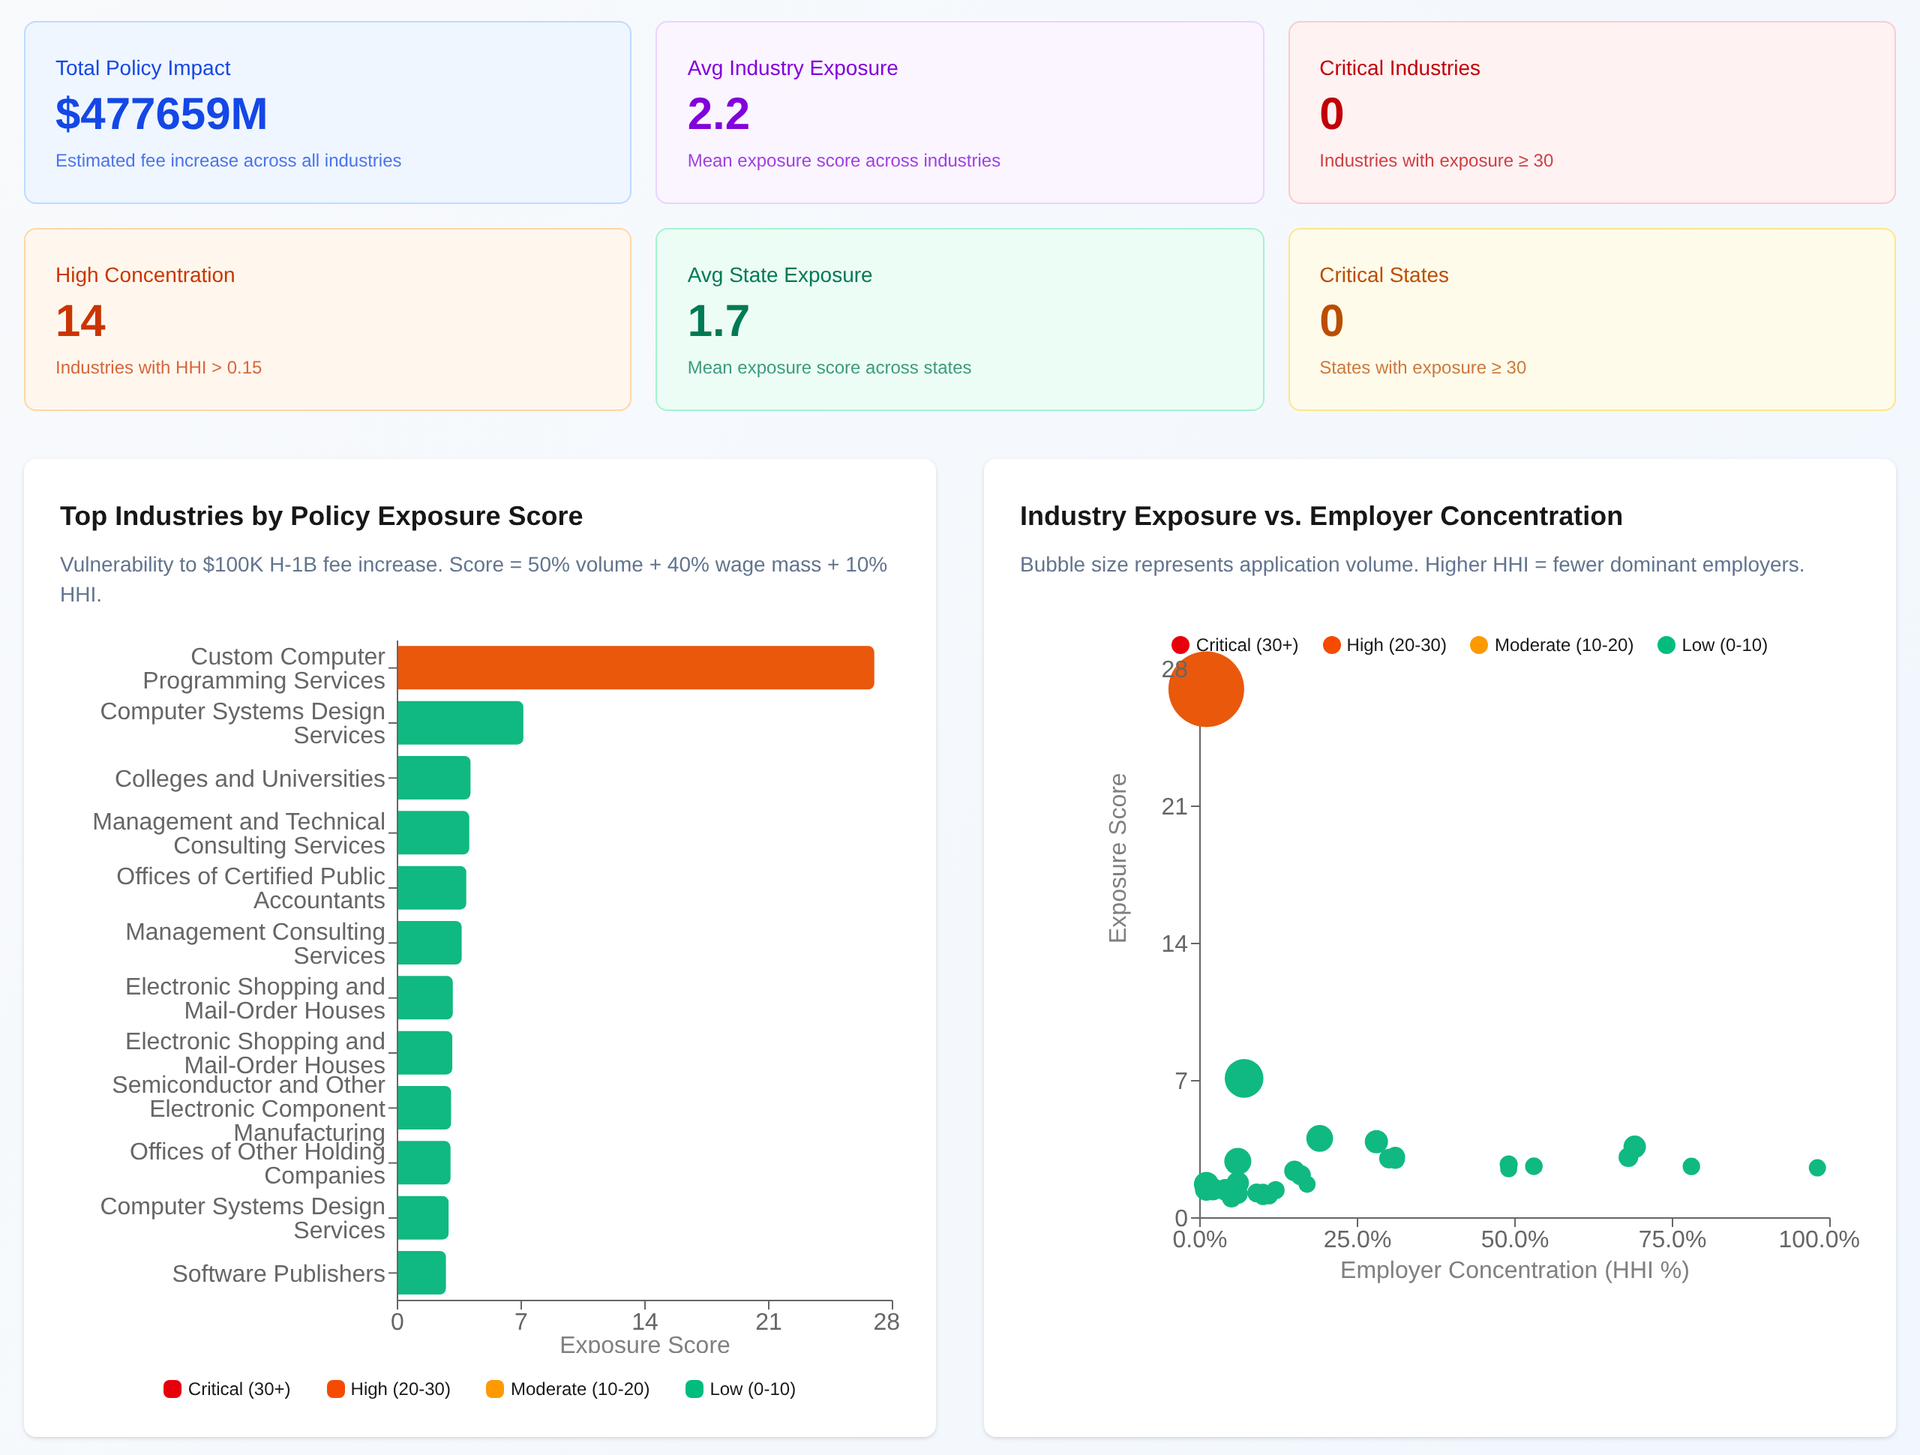
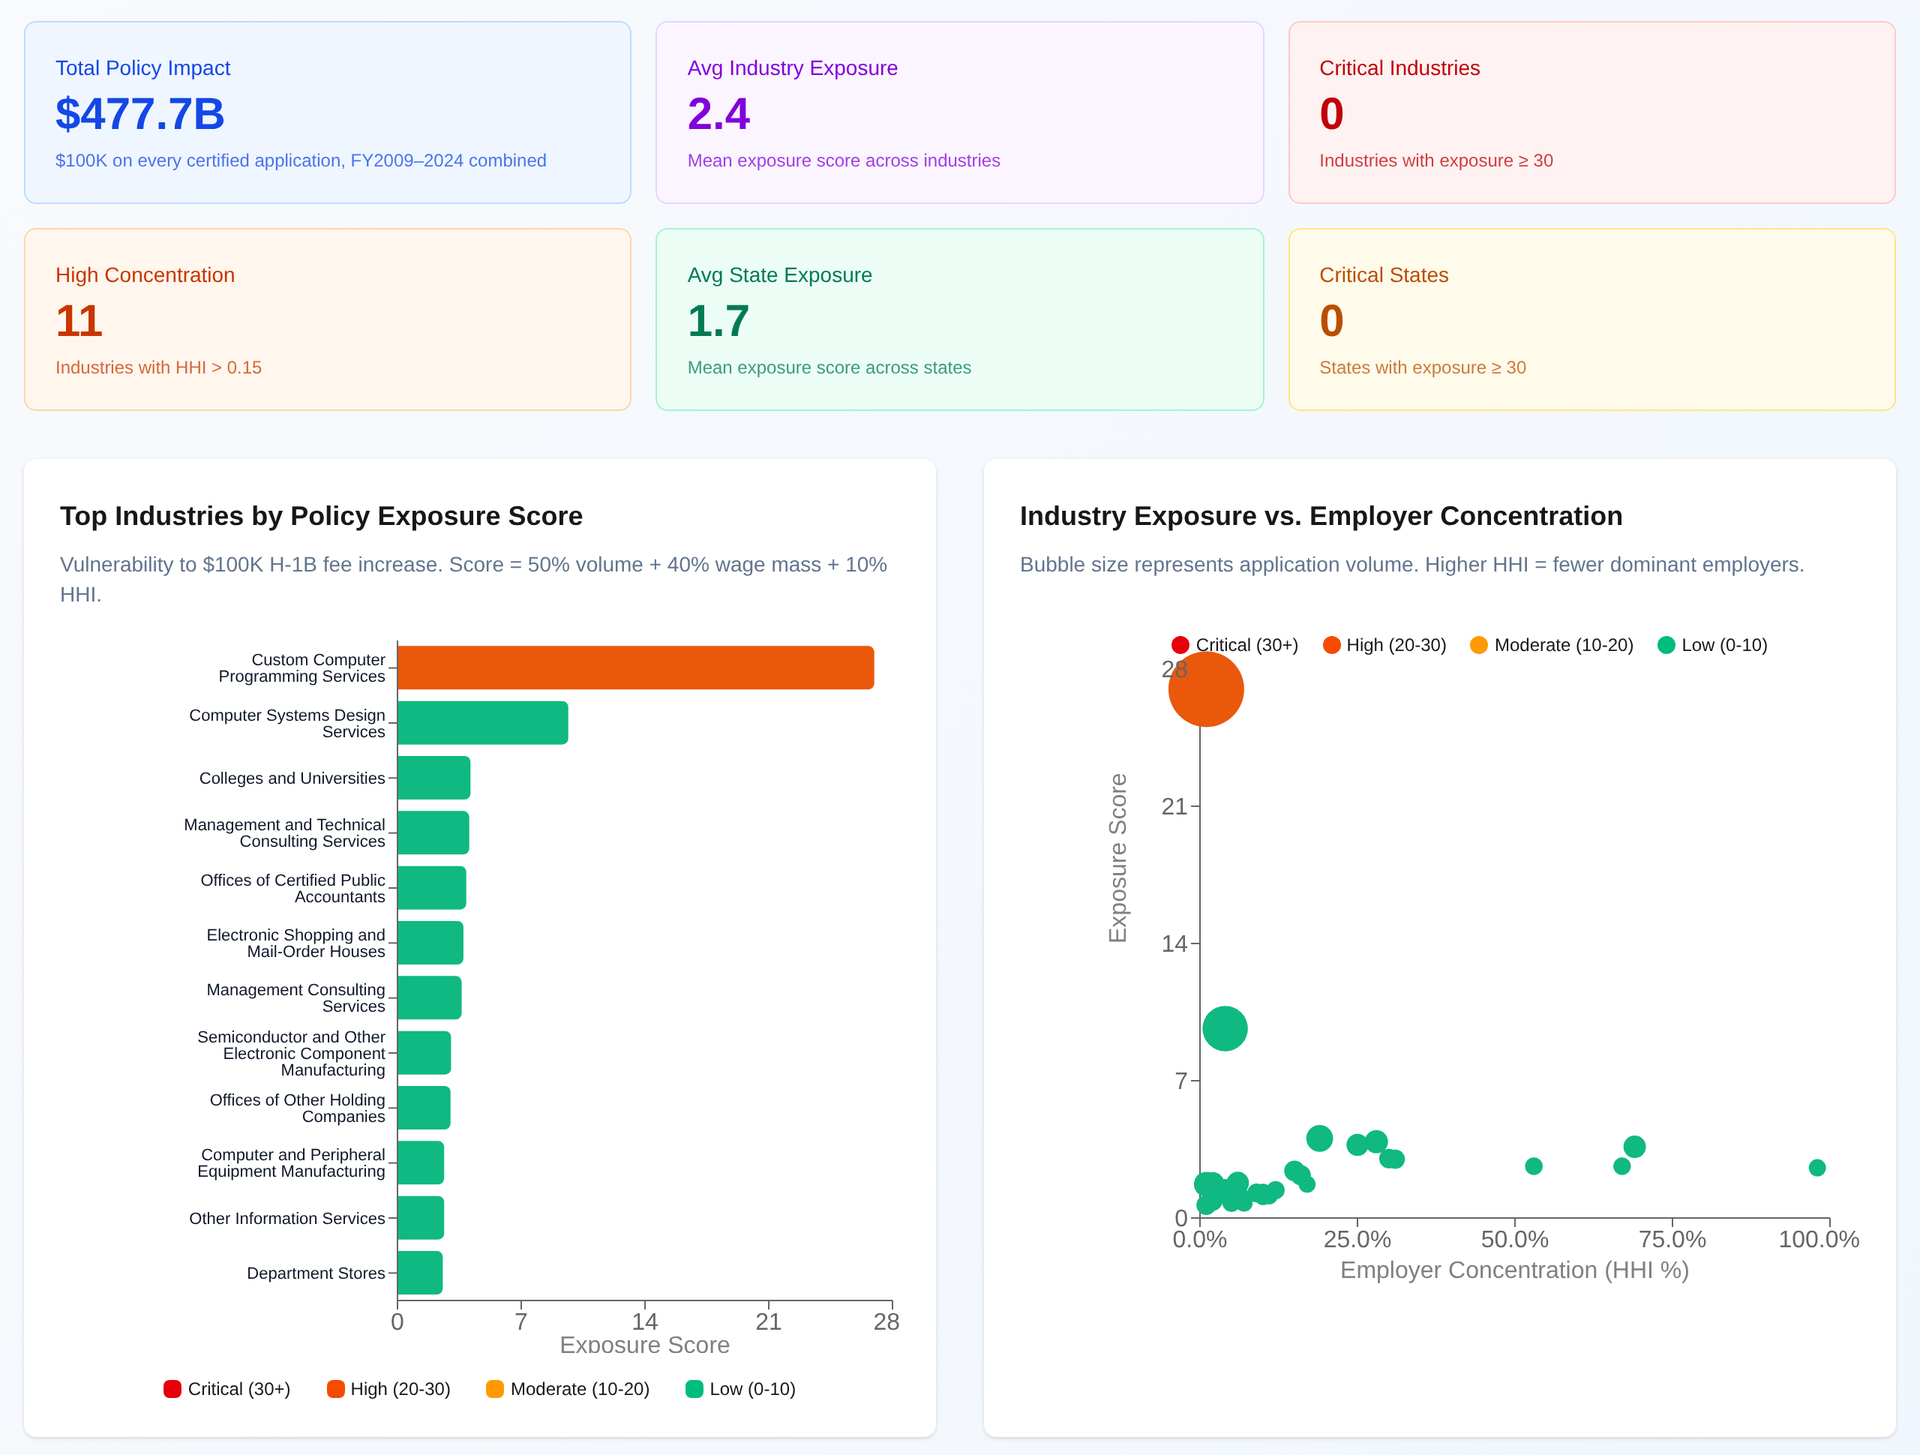
Merge duplicate industry codes, show full industry names, format policy impact; rewrite README

diff --git a/frontend/lib/staticData.ts b/frontend/lib/staticData.ts
@@ -7,13 +7,82 @@ import covidTrends from '@/data/covid_trends.json';
 import exposureScores from '@/data/exposure_scores.json';
 import type { IndustryMetric, StateMetric, EmployerMetric } from '@/lib/types';
 
-export const industryData = industryMetrics as IndustryMetric[];
+// Several NAICS codes share one industry name (e.g. 5415, 54151 and 541512 are all
+// "Computer Systems Design Services": the same industry recorded at different levels of
+// detail or under different NAICS editions). Merge them so each industry appears once.
+// The merged row keeps the code of its largest component.
+
+type Row = Record<string, unknown>;
+const num = (v: unknown) => Number(v ?? 0);
+
+function groupBy<T>(rows: T[], key: (r: T) => string) {
+  const groups = new Map<string, T[]>();
+  for (const r of rows) {
+    const k = key(r);
+    if (!groups.has(k)) groups.set(k, []);
+    groups.get(k)!.push(r);
+  }
+  return groups;
+}
+
+function mergeIndustryMetrics(rows: IndustryMetric[]): IndustryMetric[] {
+  const groups = groupBy(rows, (r) => `${r.fiscal_year}|${r.industry_name ?? r.industry}`);
+  return Array.from(groups.values()).map((g) => {
+    if (g.length === 1) return g[0];
+    const largest = g.reduce((a, b) => (b.total_applications > a.total_applications ? b : a));
+    const apps = g.reduce((s, r) => s + r.total_applications, 0);
+    const wages = g.reduce((s, r) => s + num(r.total_annual_wages), 0);
+    // Wage-weighted average is exact; a merged median can't be computed from summaries,
+    // so use an application-weighted average of the component medians.
+    const median = g.reduce((s, r) => s + num(r.median_annual_wage) * r.total_applications, 0) / apps;
+    return {
+      ...largest,
+      total_applications: apps,
+      unique_employers: g.reduce((s, r) => s + r.unique_employers, 0),
+      total_annual_wages: wages,
+      avg_annual_wage: wages / apps,
+      median_annual_wage: Math.round(median),
+    };
+  });
+}
+
+function mergeExposureIndustries(rows: Row[]): Row[] {
+  const groups = groupBy(rows, (r) => String(r.industry_name ?? r.industry));
+  return Array.from(groups.values())
+    .map((g) => {
+      if (g.length === 1) return g[0];
+      const largest = g.reduce((a, b) => (num(b.total_applications) > num(a.total_applications) ? b : a));
+      const apps = g.reduce((s, r) => s + num(r.total_applications), 0);
+      // HHI of the combined industry, assuming each employer files under one code:
+      // sum over codes of (code's share of the combined industry)^2 x code's HHI.
+      const hhi = g.reduce((s, r) => s + (num(r.total_applications) / apps) ** 2 * num(r.hhi_concentration), 0);
+      const volume = g.reduce((s, r) => s + num(r.volume_share_pct), 0);
+      const wage = g.reduce((s, r) => s + num(r.wage_mass_share_pct), 0);
+      const hhiScore = Math.min(hhi, 0.25) * 100;
+      const round2 = (x: number) => Math.round(x * 100) / 100;
+      return {
+        ...largest,
+        total_applications: apps,
+        total_wage_mass: g.reduce((s, r) => s + num(r.total_wage_mass), 0),
+        employer_count: g.reduce((s, r) => s + num(r.employer_count), 0),
+        hhi_concentration: round2(hhi),
+        volume_share_pct: round2(volume),
+        wage_mass_share_pct: round2(wage),
+        hhi_score: round2(hhiScore),
+        exposure_score: round2(0.5 * volume + 0.4 * wage + 0.1 * hhiScore),
+        estimated_fee_shock_millions: round2((apps * 100000) / 1e6),
+      };
+    })
+    .sort((a, b) => num(b.exposure_score) - num(a.exposure_score));
+}
+
+export const industryData = mergeIndustryMetrics(industryMetrics as IndustryMetric[]);
 export const stateData = stateMetrics as StateMetric[];
 export const employerData = employerMetrics as EmployerMetric[];
-export const covidData = covidTrends as Record<string, unknown>[];
-export const exposureData = exposureScores as {
-  industries: Record<string, unknown>[];
-  states: Record<string, unknown>[];
+export const covidData = covidTrends as Row[];
+export const exposureData = {
+  industries: mergeExposureIndustries((exposureScores as { industries: Row[] }).industries),
+  states: (exposureScores as { states: Row[] }).states,
 };
 
 // The industry dropdown sends the industry *name*; older links may send the NAICS code.

diff --git a/frontend/components/IndustryCharts.tsx b/frontend/components/IndustryCharts.tsx
@@ -24,7 +24,7 @@ export default function IndustryCharts({ data }: IndustryChartsProps) {
     .slice(0, 10);
 
   // Helper function to truncate long names
-  const truncateName = (name: string, maxLength: number = 15) => {
+  const truncateName = (name: string, maxLength: number = 80) => {
     if (name.length <= maxLength) return name;
     return name.substring(0, maxLength) + '...';
   };
@@ -56,18 +56,17 @@ export default function IndustryCharts({ data }: IndustryChartsProps) {
         <h3 className="text-lg font-semibold text-slate-900 mb-4">
           Top 10 Industries by Applications
         </h3>
-        <ResponsiveContainer width="100%" height={300}>
-          <BarChart data={applicationsData}>
+        <ResponsiveContainer width="100%" height={420}>
+          <BarChart data={applicationsData} layout="vertical" margin={{ right: 16 }}>
             <CartesianGrid strokeDasharray="3 3" />
-            <XAxis
+            <XAxis type="number" tickFormatter={(v) => Number(v).toLocaleString()} />
+            <YAxis
+              type="category"
               dataKey="industry"
-              angle={-45}
-              textAnchor="end"
-              height={100}
+              width={210}
               interval={0}
-              tick={{ fontSize: 12.5, fill: '#000000' }}
+              tick={{ fontSize: 11, fill: '#0f172a' }}
             />
-            <YAxis />
             <Tooltip
               contentStyle={{ backgroundColor: 'white', border: '1px solid #ccc' }}
               labelFormatter={(label, payload) => {
@@ -88,21 +87,20 @@ export default function IndustryCharts({ data }: IndustryChartsProps) {
         <h3 className="text-lg font-semibold text-slate-900 mb-4">
           Average & Median Wages by Industry
         </h3>
-        <ResponsiveContainer width="100%" height={300}>
-          <BarChart data={wagesData}>
+        <ResponsiveContainer width="100%" height={420}>
+          <BarChart data={wagesData} layout="vertical" margin={{ right: 16 }}>
             <CartesianGrid strokeDasharray="3 3" />
-            <XAxis
+            <XAxis type="number" tickFormatter={(value) => `$${(value / 1000).toFixed(0)}k`} />
+            <YAxis
+              type="category"
               dataKey="industry"
-              angle={-45}
-              textAnchor="end"
-              height={100}
+              width={210}
               interval={0}
-              tick={{ fontSize: 12.5, fill: '#000000' }}
+              tick={{ fontSize: 11, fill: '#0f172a' }}
             />
-            <YAxis tickFormatter={(value) => `$${(value / 1000).toFixed(0)}k`} />
             <Tooltip
               contentStyle={{ backgroundColor: 'white', border: '1px solid #ccc' }}
-              formatter={(value) => `$${Number(value).toLocaleString()}`}
+              formatter={(value) => `$${Math.round(Number(value)).toLocaleString()}`}
               labelFormatter={(label, payload) => {
                 if (payload && payload[0]) {
                   return payload[0].payload.fullName;

diff --git a/frontend/components/ExposureMetricsGrid.tsx b/frontend/components/ExposureMetricsGrid.tsx
@@ -12,6 +12,12 @@ interface ExposureMetricsGridProps {
   stateData: ExposureRow[];
 }
 
+// Values are in millions of dollars: 477658.9 -> "$477.7B"
+const formatMillions = (m: number) =>
+  m >= 1_000_000 ? `$${(m / 1_000_000).toFixed(1)}T`
+  : m >= 1_000 ? `$${(m / 1_000).toFixed(1)}B`
+  : `$${m.toFixed(0)}M`;
+
 export default function ExposureMetricsGrid({ 
   industryData, 
   stateData 
@@ -42,8 +48,8 @@ export default function ExposureMetricsGrid({
   const metrics = [
     {
       label: 'Total Policy Impact',
-      value: `$${industryTotalFees.toFixed(0)}M`,
-      description: 'Estimated fee increase across all industries',
+      value: formatMillions(industryTotalFees),
+      description: '$100K on every certified application, FY2009–2024 combined',
       color: 'bg-blue-50 text-blue-700 border-blue-200',
     },
     {

diff --git a/frontend/components/ExposureTopIndustries.tsx b/frontend/components/ExposureTopIndustries.tsx
@@ -68,6 +68,8 @@ export default function ExposureTopIndustries({ data }: { data: ExposureRow[] })
               type="category"
               dataKey="industry"
               width={220}
+              interval={0}
+              tick={{ fontSize: 11, fill: '#0f172a' }}
             />
             <Tooltip
               content={({ payload }: any) => {

diff --git a/README.md b/README.md
@@ -63,7 +63,7 @@ The DOL files changed format many times over 16 years. These choices keep the ye
 
 - An application (LCA) is filed before a petition. One LCA can cover several workers, and not every certified LCA leads to a hire, so these counts measure employer demand, not visas issued.
 - Industry comes from the NAICS code each employer files under. Some large employers file under different entities or codes in different years, which causes implausible jumps for a few industries, such as Research and Development in Physical Sciences (+353% from FY2019 to FY2020) and Management Consulting Services (−59%).
-- A few industry names correspond to more than one NAICS code, so they appear twice in some charts.
+- Some industries are recorded under several NAICS codes (for example 5415, 54151 and 541512 for Computer Systems Design Services). The dashboard merges codes that share a name; merged medians are approximate (application-weighted averages of each code's median).
 - Wages are nominal, not adjusted for inflation.
 
 ---
